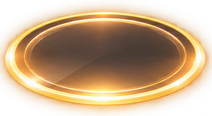
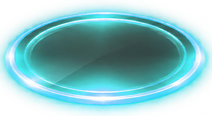
Colour SYNK mode's notes by type
Taps stay gold as supplied; holds, slides, their end caps and beams turn
cyan; flicks turn hot pink. The art's hue is turned, so shapes, shading and
highlights are unchanged. Hit flashes and flick sparks follow each colour.

diff --git a/tools/make_synk_mode_art.py b/tools/make_synk_mode_art.py
@@ -105,13 +105,34 @@ def pulse(img, heat):
     return rgb, a
 
 
+# One colour per note type, by turning the gold art's hue (gold sits at hue 0.11): the
+# shapes, shading and white highlights stay exactly as supplied.
+HUE_TAP = 0.0       # gold, as supplied
+HUE_HOLD = 0.42     # cyan: holds, slides, their end caps and beams
+HUE_FLICK = -0.17   # hot pink
+
+
+def recolour(rgb, turn, richer=1.0):
+    """Turn the hue of an RGB array (0..1) by `turn` of a full circle."""
+    if turn == 0.0: return rgb
+    mx = rgb.max(-1); mn = rgb.min(-1); span = mx - mn
+    safe = np.maximum(span, 1e-6)
+    r, g, b = rgb[..., 0], rgb[..., 1], rgb[..., 2]
+    hue = np.where(mx == r, ((g - b) / safe) % 6, np.where(mx == g, (b - r) / safe + 2, (r - g) / safe + 4)) / 6
+    sat = np.clip(np.where(mx > 0, span / np.maximum(mx, 1e-6), 0) * richer, 0, 1)
+    hue = (hue + turn) % 1.0
+    k = (np.stack([5, 3, 1], -1) + hue[..., None] * 6) % 6
+    return mx[..., None] * (1 - sat[..., None] * np.clip(np.minimum(k, 4 - k), 0, 1))
+
+
 def notes():
     ring = Image.open(SOURCE / "ring.png").convert("RGBA")
     box = outline(ring)
-    for prefix, size, dst in [("tap", (212, 116), (2, 10, 208, 109)), ("hold", (212, 116), (2, 10, 208, 109)), ("tail", (132, 72), (3, 3, 130, 65))]:
+    for prefix, size, dst, turn in [("tap", (212, 116), (2, 10, 208, 109), HUE_TAP), ("hold", (212, 116), (2, 10, 208, 109), HUE_HOLD), ("tail", (132, 72), (3, 3, 130, 65), HUE_HOLD)]:
         fitted = place(ring, box, dst, size)
         for i, heat in enumerate(HEAT, start=1):
-            save(*pulse(fitted, heat), OUT / f"{prefix}{i}.png")
+            rgb, a = pulse(fitted, heat)
+            save(recolour(rgb, turn), a, OUT / f"{prefix}{i}.png")
 
 
 def flick():
@@ -143,7 +164,7 @@ def flick():
         rising = place(chevron_img, src, (ox, oy, ox + w, oy + h), size)
         frame = base.copy(); frame.alpha_composite(rising)
         rgb, a = pulse(frame, HEAT[min(i, 2)] * .6)
-        save(rgb, a, OUT / f"flick{i + 1}.png")
+        save(recolour(rgb, HUE_FLICK, 1.1), a, OUT / f"flick{i + 1}.png")
 
 
 def trail():
@@ -164,7 +185,7 @@ def trail():
     alpha = mean[..., 3]
     rgb = mean[..., :3] / np.maximum(alpha, 1e-6)[..., None]
     alpha = alpha * smooth(0, 6, np.minimum(np.arange(256), 255 - np.arange(256)))[None, :]   # soft outer edge
-    save(np.repeat(rgb, 4, axis=0), np.repeat(alpha, 4, axis=0), OUT / "trail_profile.png")
+    save(np.repeat(recolour(rgb, HUE_HOLD), 4, axis=0), np.repeat(alpha, 4, axis=0), OUT / "trail_profile.png")
 
 
 def pause():
